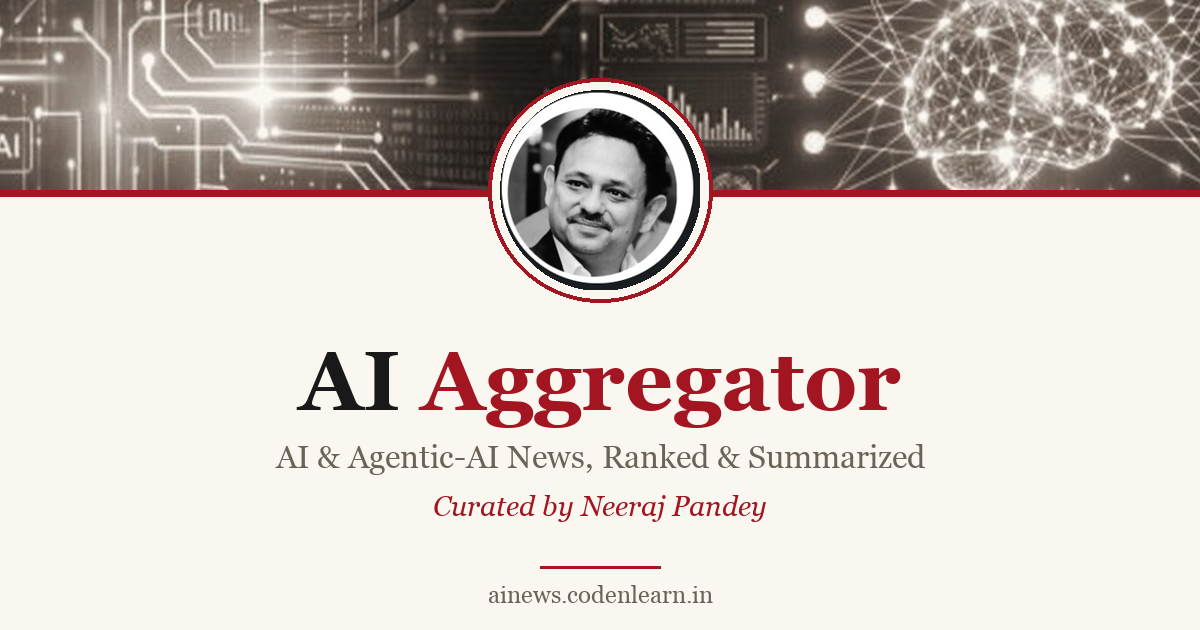
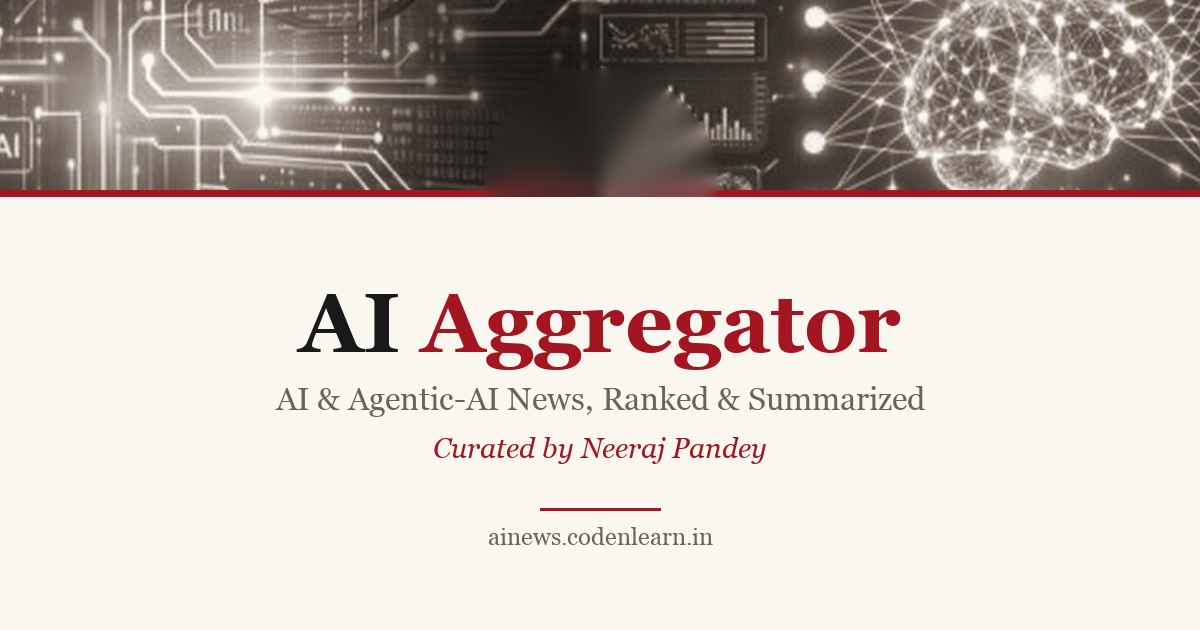
Remove personal photo from header and share-preview image

Changed region(s): [[0.2158, 0.1206, 0.7708, 0.754], [0.37, 0.7841, 0.6475, 0.9048], [0.4008, 0.9349, 0.5858, 0.9651]]

diff --git a/aiaggregator/templates/base.html b/aiaggregator/templates/base.html
@@ -113,9 +113,6 @@
   <header class="bg-white border-b-2 border-gray-900">
     <div class="max-w-7xl mx-auto px-4 py-4 flex flex-wrap items-center gap-x-4 gap-y-2">
       <a href="/" class="flex items-center gap-2 sm:gap-3 min-w-0">
-        <img src="/static/avatar.jpg" alt=""
-             class="h-9 w-9 sm:h-11 sm:w-11 rounded-full object-cover ring-2 ring-gray-200 shrink-0"
-             onerror="this.style.display='none'">
         <span class="leading-none whitespace-nowrap">
           <span class="text-xl sm:text-2xl font-extrabold tracking-tight">AI</span><span class="text-xl sm:text-2xl font-extrabold tracking-tight accent">Aggregator</span>
         </span>
